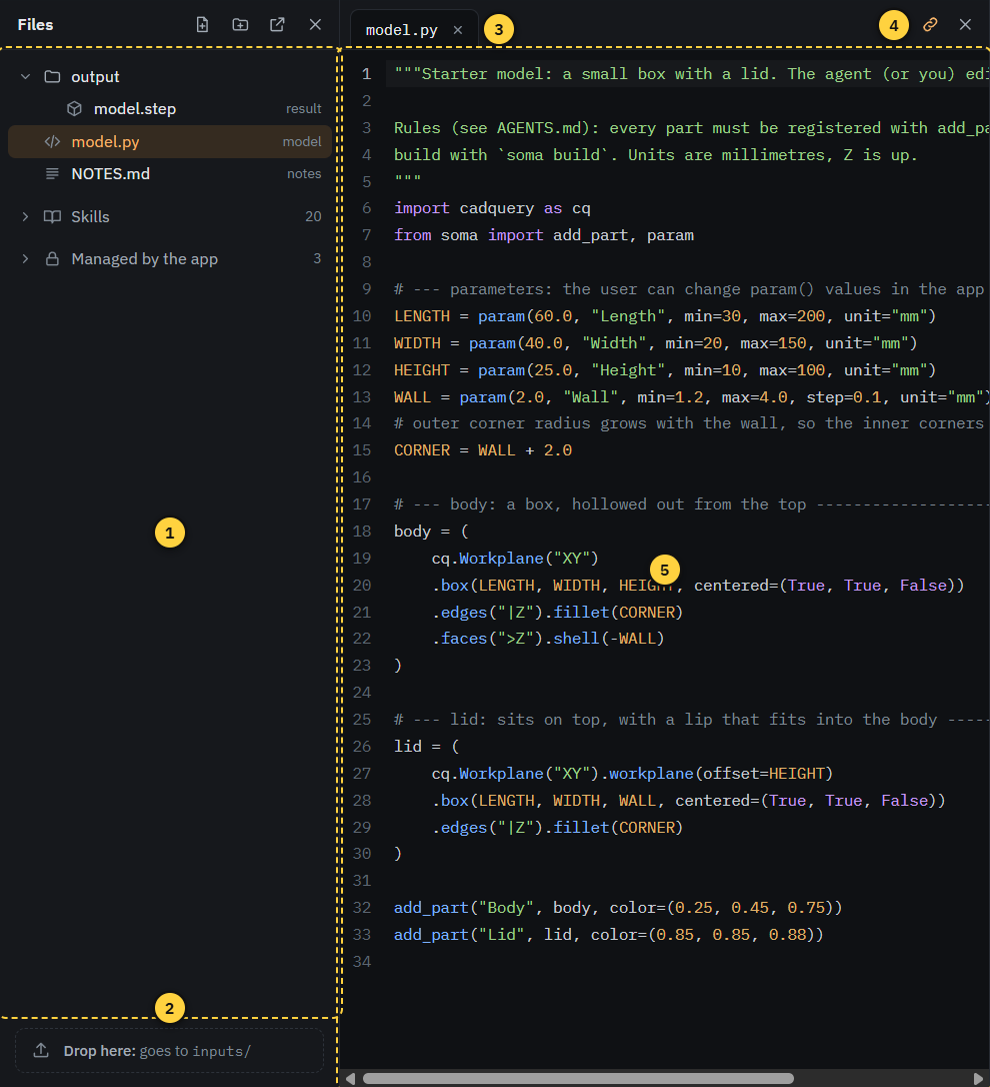
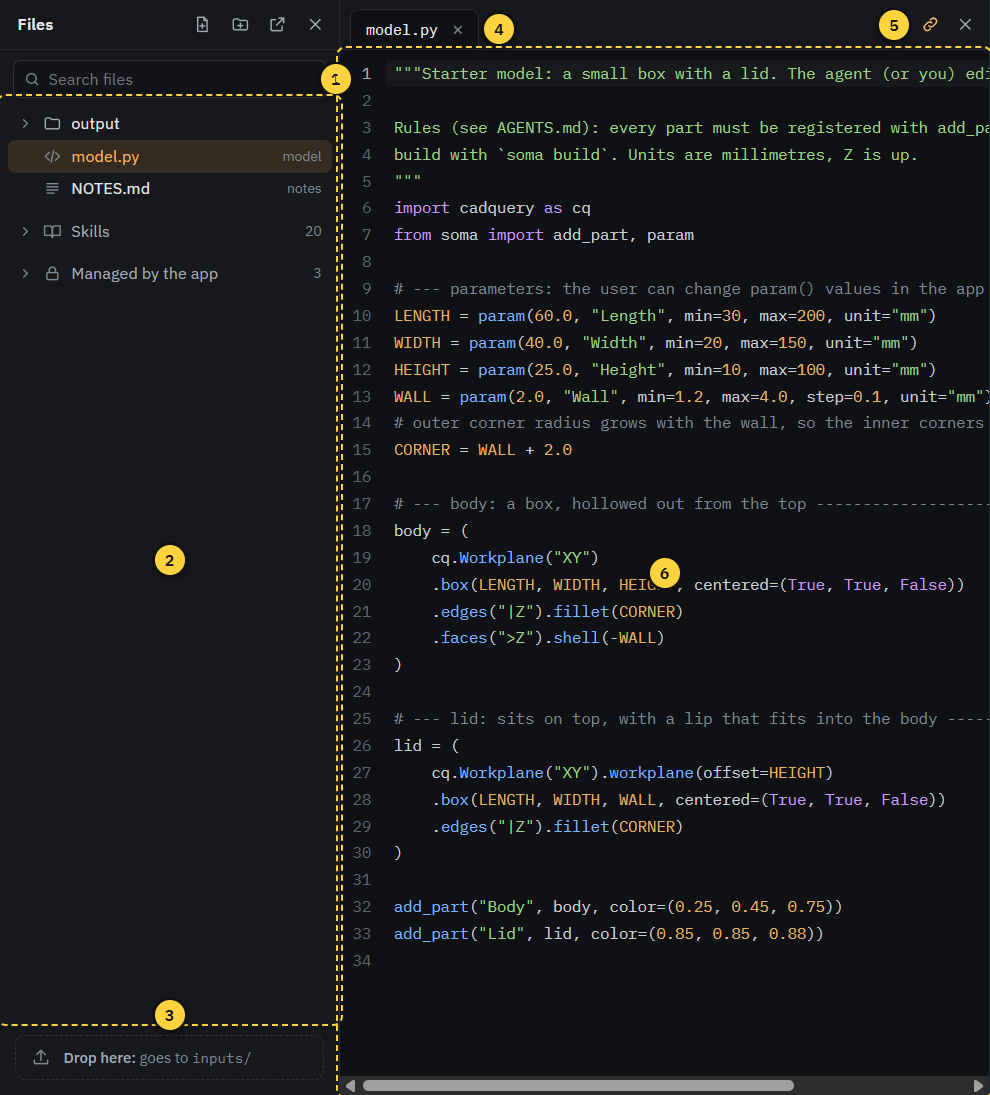
Doku: Anleitung und Changelog zu Dateibaum, Videos und Player

diff --git a/app/resources/skills/soma-app.md b/app/resources/skills/soma-app.md
@@ -143,7 +143,7 @@ Mark up is the quickest way to show the agent what you mean: draw an arrow, writ
 1. **Parameters**: values of the model you can change yourself, such as sizes, counts or angles. The model rebuilds right away. The agent decides which values appear here. The arrow next to a changed value brings back the agent's value.
 2. **Files**: all files of the model. Click one to open it next to it.
 3. **Analysis**: results the agent calculated, such as strength (FEM), wall thickness, overhang or clearance. Click one to see it in color on the model, with its report.
-4. **Animation**: motion the agent made, for example an assembly sequence. Click one to play it in the viewer, "Make video" writes an MP4.
+4. **Animation**: motion the agent made, for example an assembly sequence. Click one to play it in the viewer, "Make video" writes an MP4. Below are the videos of the model, sorted by folder; click a folder to collapse it (SOMA remembers this per model). Right-click a video to play, rename or delete it, show it in the file tree or in Explorer.
 5. **Drawings**: all technical drawings of the model in one view, next to the viewer (no sidebar). See "Drawings" below.
 6. **Skills**: rule sets for the agent, such as 3D printing, CNC or tolerances. Off, On demand (the agent reads them when the topic comes up) or Always.
 7. **Help**: this guide (F1).
@@ -164,13 +164,18 @@ Ask the agent for a technical drawing ("Make a drawing of the bracket with all d
 
 ![Files and the code editor](../help/code.png)
 
-1. **File tree**: the model's files. Right-click for new, rename, show in Explorer and delete. "Managed by the app" holds files SOMA writes itself.
-2. **Drop zone**: drop STEP files, images or sketches here. They go to `inputs/`, where the agent can use them.
-3. **Open files**: one tab per open file.
-4. **Linked to selection**: when on, clicking a part in the viewer jumps to its code.
-5. **Editor**: you can edit the code yourself. Ctrl S saves the file and builds. If the agent changes the same file, SOMA asks before anything is overwritten.
+1. **Search**: shows only files whose name contains the text, with their folders opened. With a "/" in the text it searches the whole path. Escape clears it.
+2. **File tree**: the model's files. Folders start collapsed, click one to open it; the folder of a file you open in the editor opens by itself. Right-click for new, rename, show in Explorer and delete. "Managed by the app" holds files SOMA writes itself.
+3. **Drop zone**: drop STEP files, images or sketches here. They go to `inputs/`, where the agent can use them.
+4. **Open files**: one tab per open file.
+5. **Linked to selection**: when on, clicking a part in the viewer jumps to its code.
+6. **Editor**: you can edit the code yourself. Ctrl S saves the file and builds. If the agent changes the same file, SOMA asks before anything is overwritten.
 
 Markdown files (such as `NOTES.md`) open as a document, PDF and DXF files open as a drawing.
+
+Click a video (MP4, WebM) to play it over the viewer. The bar below it steps frame by frame (arrow keys), mutes (M) and sets the
+volume, "Mark up" draws on the current frame, "Time to agent" passes the file with the time, and "…" opens the file actions
+(show in file tree or Explorer, rename, delete).
 
 Click a STEP file (`.step`, `.stp`) to look at it in the viewer. A banner names the file. Measure, Section, Explode and the
 structure tree work as usual, but the parts have no link to code, and Animation and Analysis stay off. Builds of your model

diff --git a/CHANGELOG.md b/CHANGELOG.md
@@ -6,6 +6,17 @@ the version is bumped.
 
 ## [Unreleased]
 
+### Added
+
+- Search field above the file tree: it shows only files whose name contains the text, with their folders opened.
+- Videos in the Animation tab are sorted by folder, and each folder can be collapsed (remembered per model), so the agent's many short clips no longer hide the main videos.
+- Right-click a video in the Animation tab, or click "…" in the video player, to show it in the file tree or in Explorer, rename or delete it.
+- The video player has a mute button (M) and a volume slider. Both are remembered.
+
+### Changed
+
+- Folders in the file tree start collapsed. The folder of a file you open in the editor opens by itself.
+
 ### Fixed
 
 - Exports as 3MF, AMF, STL and OBJ are now one closed, manifold mesh per body with shared vertices. Before, every CAD face was its own patch, and slicers reported open edges and repaired the mesh, sometimes leaving a crack in the wall along a fillet. Degenerate triangles at the corners of fillets are gone too. Curves are meshed a bit finer (at most 0.05 mm deviation). If a mesh still cannot be closed, for example for an open surface, `soma export` prints a warning.
